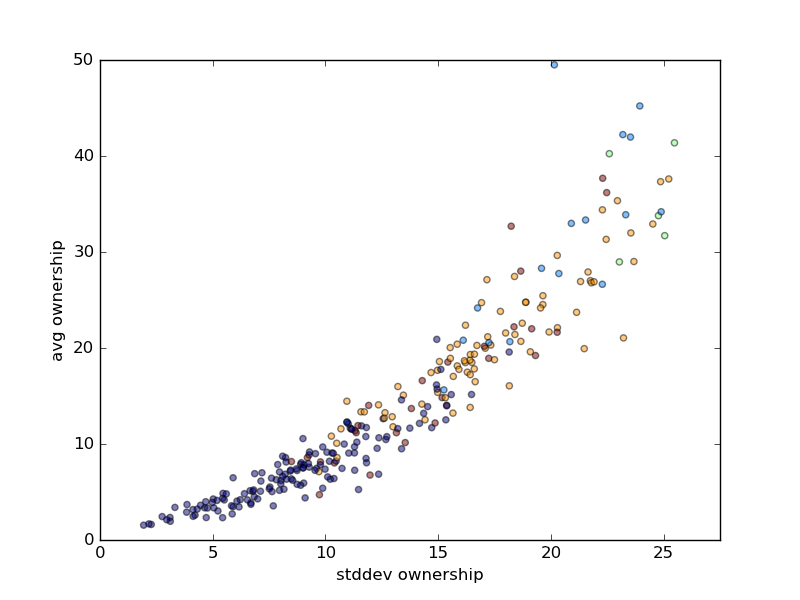
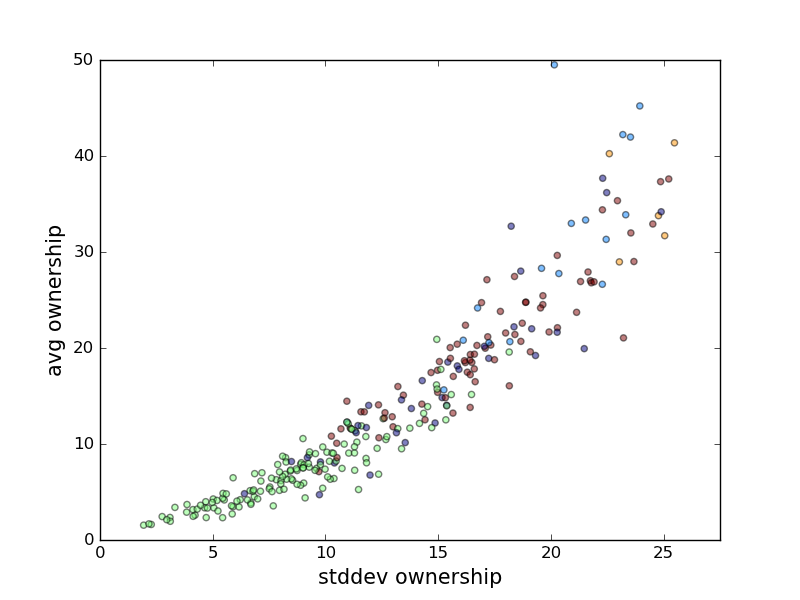
fig edits

diff --git a/ANALYSIS/KMEANS/kmeans.py b/ANALYSIS/KMEANS/kmeans.py
@@ -75,8 +75,8 @@ if __name__ == '__main__':
 	y = M['mean'].values.tolist()
 	r = M['fraction unexplained variance'].values.tolist()
 	plt.scatter(x,y,c = M['cluster'].values.tolist(),alpha=0.5)
-	plt.xlabel('stddev ownership')
-	plt.ylabel('avg ownership')
+	plt.xlabel('stddev ownership',size=15)
+	plt.ylabel('avg ownership',size=15)
 	plt.xlim([0,27.5])
 	plt.ylim([0,50])
 	#plt.title(ttype+' avg. ownership v natural spread')
@@ -84,16 +84,16 @@ if __name__ == '__main__':
 
 	plt.clf()
 	plt.scatter(x,r,c = M['cluster'].values.tolist(),alpha=0.5)
-	plt.xlabel('stddev ownership')
-	plt.ylabel('fraction unexplained variance')
+	plt.xlabel('stddev ownership',size=15)
+	plt.ylabel('fraction unexplained variance',size=15)
 	plt.xlim([0,27.5])
 	#plt.title(ttype+' ownership model error : natural error v natural spread')
 	plt.savefig('sig.ratio.'+modeltype+'.'+ttype+'.png')
 
 	plt.clf()
 	plt.scatter(y,r,c = M['cluster'].values.tolist(),alpha=0.5)
-	plt.xlabel('avg ownership')
-	plt.ylabel('fraction unexplained variance')
+	plt.xlabel('avg ownership',size=15)
+	plt.ylabel('fraction unexplained variance',size=15)
 	plt.xlim([0,50])
 	#plt.title(ttype+' ownership model error : natural spread v avg. ownership')
 	plt.savefig('mu.ratio.'+modeltype+'.'+ttype+'.png')

diff --git a/README.md b/README.md
@@ -260,6 +260,6 @@ I set out to answer these questions using scraped contest records of field owner
 
 6. [**fictituous gambler portfolios](https://github.com/amadeus-pinto/forecasting-daily-fantasy-gambler-picks-based-on-the-news/blob/master/ANALYSIS/PLAYER/fict.png) ( X=worldview,Y=max overlap w/previous solution,Z=number of tickets  ) -
    This type of feature is arguably the most interesting, and without a doubt among the most predictive. It is constructed as follows:
-   For each contest, initialize a set of fictitious gamblers, each with a specified "worldview", risk-reward tolerance, and number of bets. For each fictitious gambler, solve the integer programming problem of constructing a number of unique bets (tickets), each maximizing projected fantasy points (enumerated by worldview) subject to feasibility constraints (FanDuel's salary cap, position requirements, etc.) and risk-reward tolerance constraints (maximum number of athelete overlaps with previous integer programming solution in fictitous gambler's portfolio). For each athlete in the slate, construct a vector of fictitious holdings, each entry the proportions of each fictitious portfolio in that athlete. 
+   For each contest, initialize a set of fictitious gamblers, each with a specified "worldview", risk-reward tolerance, and number of bets. For each fictitious gambler, solve the integer programming problem of constructing a number of unique bets (tickets), each maximizing projected fantasy points (enumerated by worldview) subject to feasibility constraints (FanDuel's salary cap, position requirements, etc.) and risk-reward tolerance constraints (maximum number of athelete overlaps with previous integer programming solution in fictitous gambler's portfolio). For each athlete in the slate, construct a vector of fictitious holdings, each entry of which is the proportions of each fictitious portfolio in that athlete. 
   * 	gpp.fict.proj_X.Y.Z: X=(fantasycrunchers,basketballmonster,their average),Y=(2,4,6); Z=25 
 
